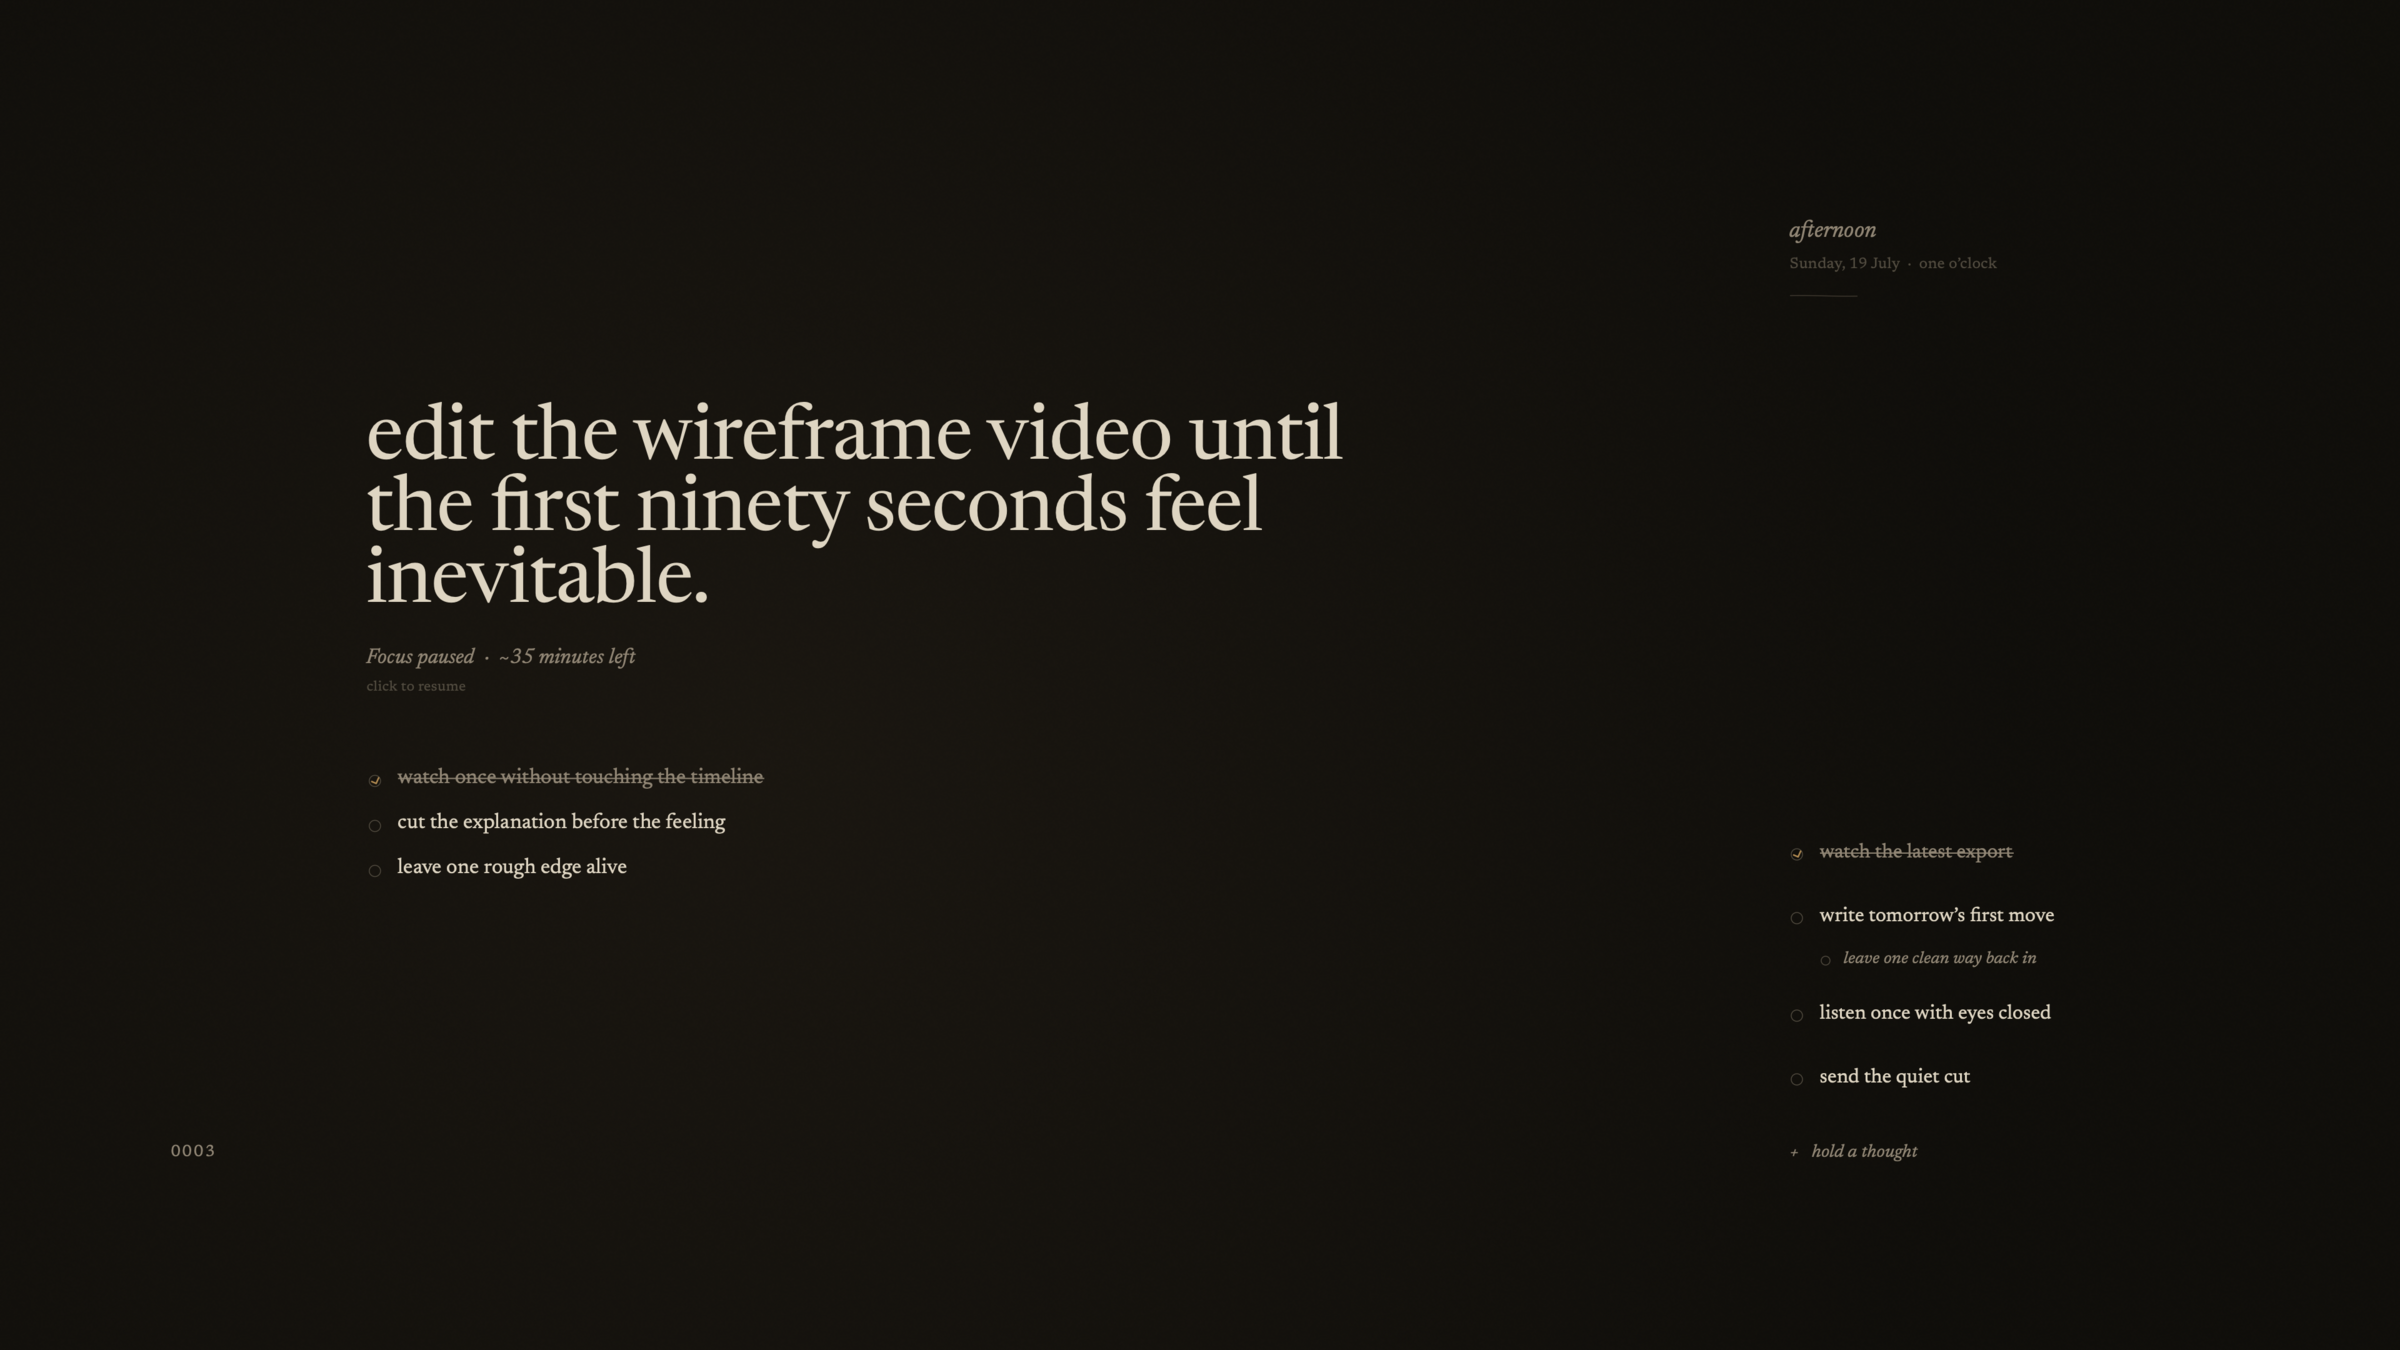
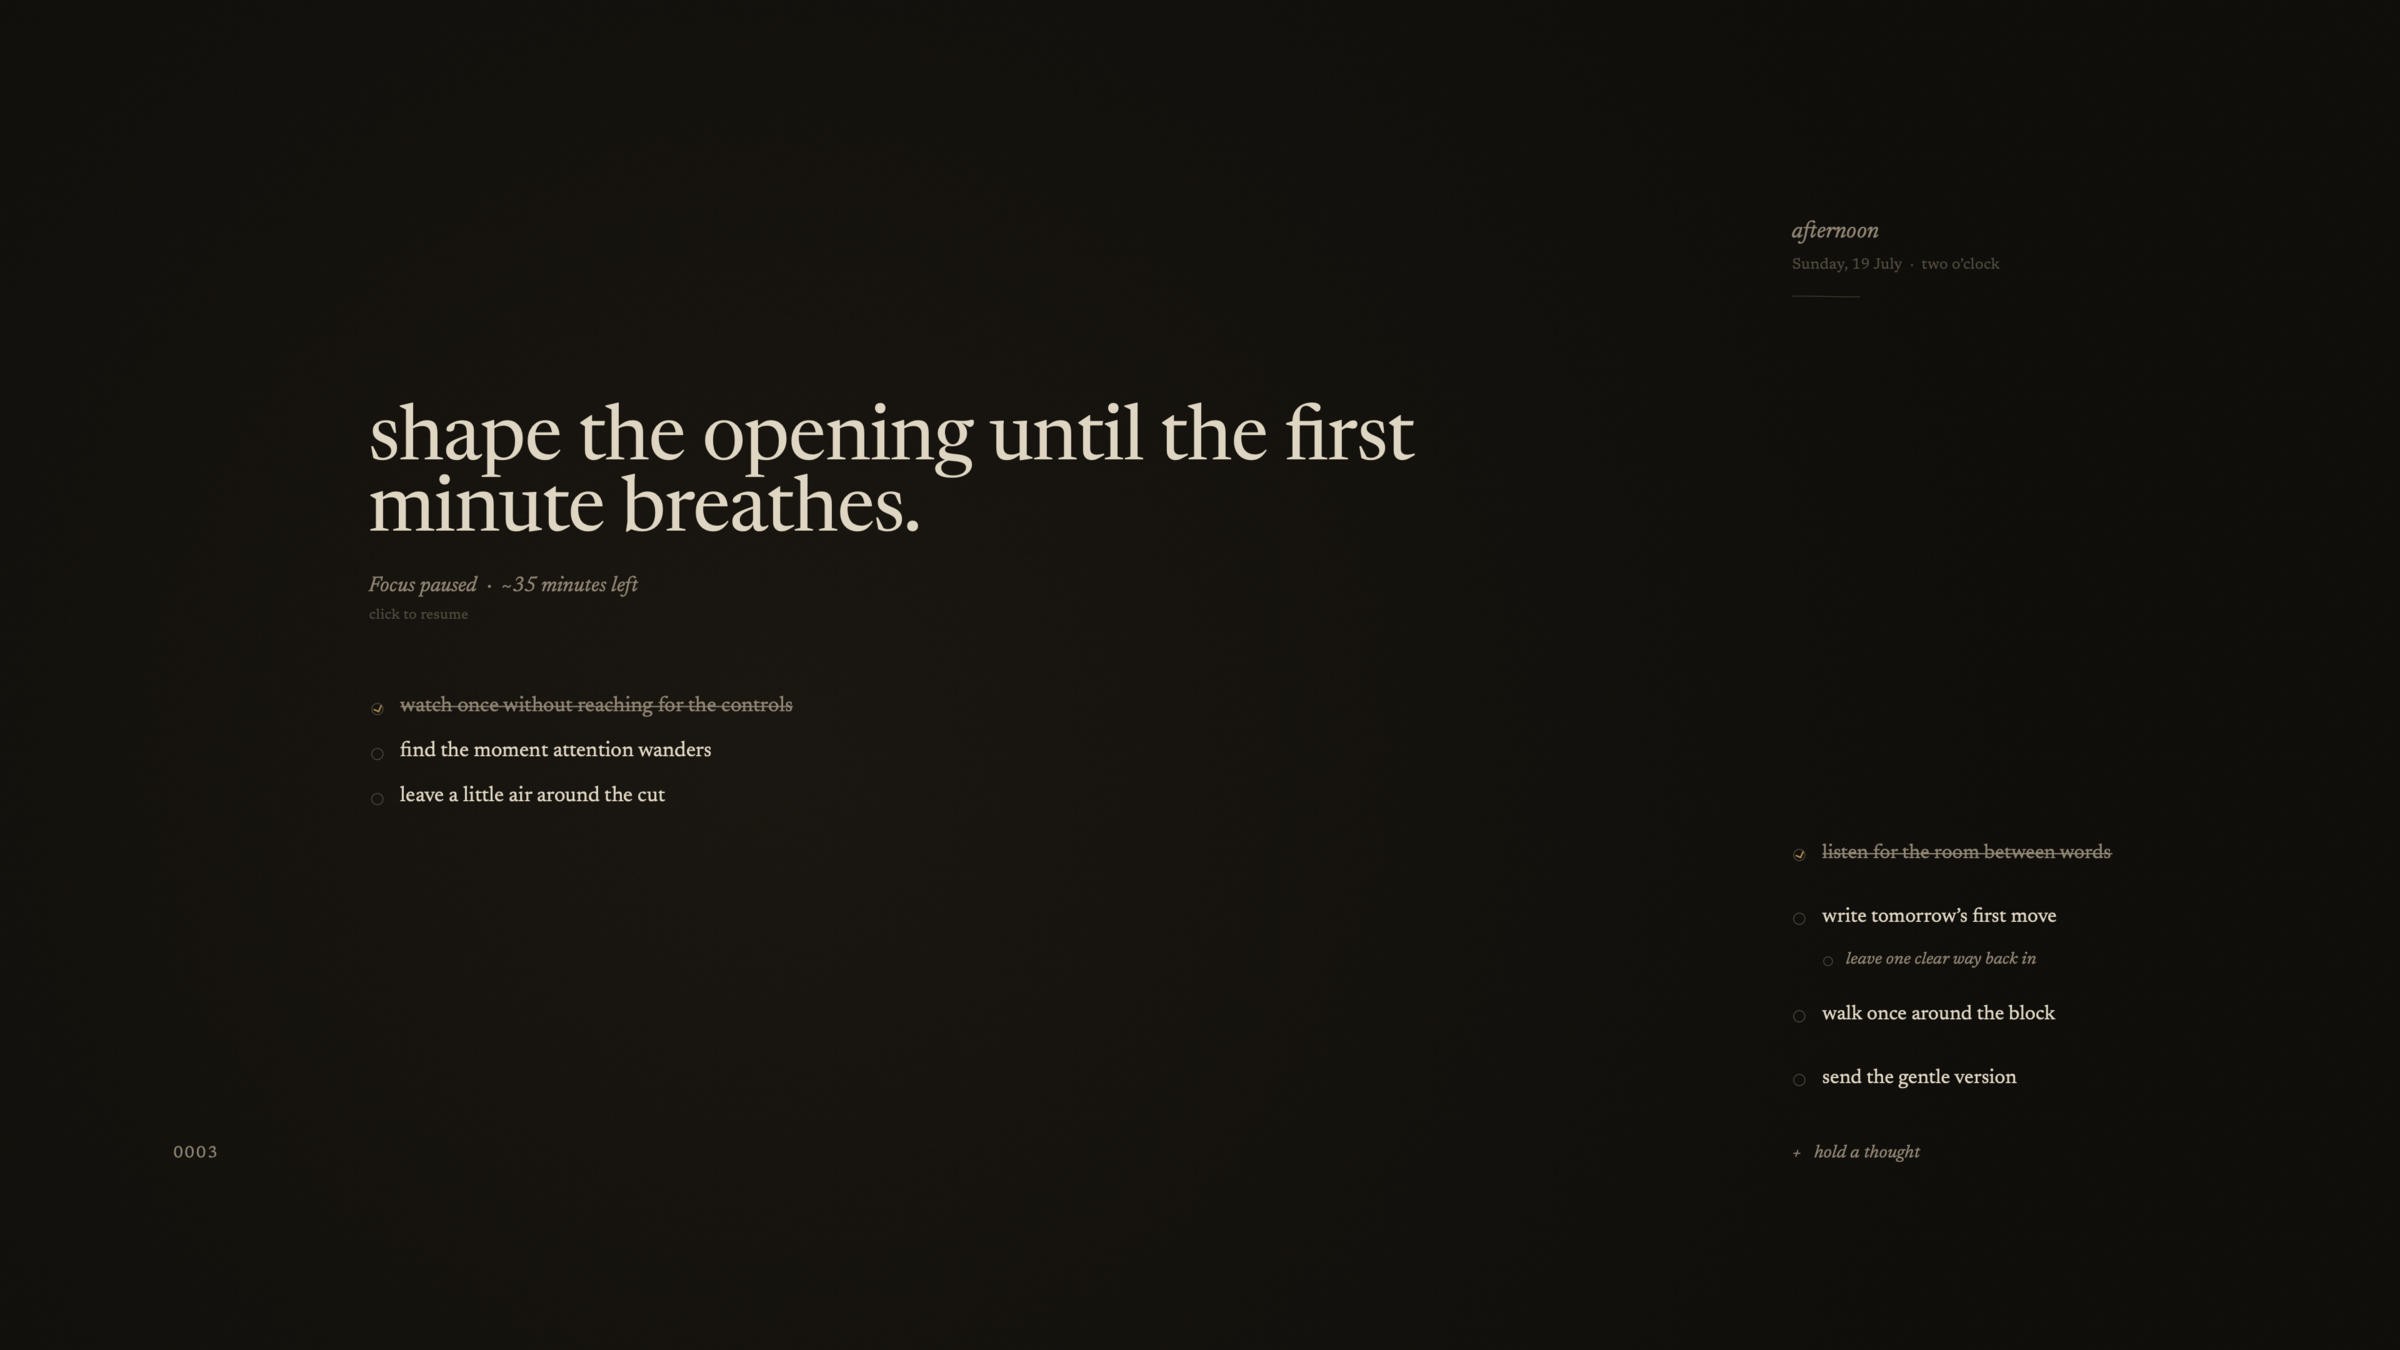
Replace the demo with a quiet first page

diff --git a/Sources/SidetrackCore/DataStore.swift b/Sources/SidetrackCore/DataStore.swift
@@ -29,7 +29,7 @@ public final class DataStore {
             if let backup = try? Data(contentsOf: backupURL),
                let recovered = try? decoder.decode(AppData.self, from: backup) {
                 try? backup.write(to: fileURL, options: .atomic)
-                return normalized(recovered)
+                return normalizeAndPersistIfNeeded(recovered)
             }
             return AppData.firstRun
         }
@@ -37,12 +37,12 @@ public final class DataStore {
             if let backup = try? Data(contentsOf: backupURL),
                let recovered = try? decoder.decode(AppData.self, from: backup) {
                 try? backup.write(to: fileURL, options: .atomic)
-                return normalized(recovered)
+                return normalizeAndPersistIfNeeded(recovered)
             }
             try? data.write(to: unreadableURL, options: .atomic)
             return AppData()
         }
-        return normalized(decoded)
+        return normalizeAndPersistIfNeeded(decoded)
     }
 
     public func save(_ value: AppData) throws {
@@ -77,10 +77,62 @@ public final class DataStore {
 
     private func normalized(_ loaded: AppData) -> AppData {
         var loaded = loaded
+        if isLegacyFirstRunSample(loaded) {
+            loaded.mainTask = nil
+            loaded.today = []
+        }
         if !loaded.didSeedFirstRun && loaded.mainTask == nil && loaded.today.isEmpty {
             return AppData.firstRun
         }
         loaded.didSeedFirstRun = true
         return loaded
+    }
+
+    private func normalizeAndPersistIfNeeded(_ loaded: AppData) -> AppData {
+        let result = normalized(loaded)
+        if result != loaded { try? save(result) }
+        return result
+    }
+
+    private func isLegacyFirstRunSample(_ value: AppData) -> Bool {
+        guard let main = value.mainTask,
+              main.title == "edit wireframe video…",
+              !main.isCompleted,
+              main.subtasks.allSatisfy({ !$0.isCompleted }) else { return false }
+
+        let mainSteps = main.subtasks.map(\.title)
+        let later = value.today.map(\.title)
+        let laterSteps = value.today.map { $0.subtasks.map(\.title) }
+        let allLaterOpen = value.today.allSatisfy { task in
+            !task.isCompleted && task.subtasks.allSatisfy { !$0.isCompleted }
+        }
+        guard allLaterOpen else { return false }
+
+        let recentMainSteps = [
+            "watch once without touching the timeline",
+            "notice where the feeling slips away",
+            "make one quiet pass"
+        ]
+        let recentLater = [
+            "listen once with eyes closed",
+            "write tomorrow’s first move",
+            "leave one clean thing for morning"
+        ]
+        let recentLaterSteps = [["leave a note where the rhythm breaks"], [], []]
+
+        let originalMainSteps = [
+            "watch the latest render once, without touching it",
+            "write down where attention wanders",
+            "make one clean pass"
+        ]
+        let originalLater = [
+            "listen once with eyes closed",
+            "write the next move down",
+            "leave one clear note for tomorrow"
+        ]
+        let originalLaterSteps = [["notice where the rhythm slips"], [], []]
+
+        return (mainSteps == recentMainSteps && later == recentLater && laterSteps == recentLaterSteps)
+            || (mainSteps == originalMainSteps && later == originalLater && laterSteps == originalLaterSteps)
     }
 }

diff --git a/Tests/SidetrackCoreTests/main.swift b/Tests/SidetrackCoreTests/main.swift
@@ -27,8 +27,9 @@ expect(TimeLanguage.rhythmLine(phase: .work, status: .paused, seconds: 50 * 60, 
 expect(TimeLanguage.rhythmLine(phase: .shortBreak, status: .running, seconds: 12 * 60, settings: PomodoroSettings()) == "Short break  ·  ~12 minutes left", "short break names its own countdown")
 expect(TimeLanguage.rhythmLine(phase: .longBreak, status: .running, seconds: 30 * 60, settings: PomodoroSettings()) == "Long break  ·  half an hour left", "long break names its own countdown")
 
-expect(CopyBank.mainPrompt(index: 0) == "edit wireframe video…", "requested main placeholder leads the copy bank")
+expect(CopyBank.mainPrompt(index: 0) == "what are you returning to?", "first placeholder offers a quiet way back in")
 expect(CopyBank.mainPrompt(index: CopyBank.next(0)) != CopyBank.mainPrompt(index: 0), "fresh day advances the copy bank")
+expect(AppData.firstRun.mainTask == nil && AppData.firstRun.today.isEmpty, "first launch begins as the user’s empty page")
 
 let late = calendar.date(from: DateComponents(year: 2026, month: 7, day: 17, hour: 23, minute: 50))!
 let offsetLate = TimeLanguage.adjusted(late, offsetMinutes: 15)
@@ -91,10 +92,16 @@ var idleTimer = FocusTimer(status: .idle, remainingSeconds: 50 * 60)
 TimerEngine.resetDurationIfIdle(&idleTimer, settings: PomodoroSettings(workMinutes: 60))
 expect(idleTimer.remainingSeconds == 60 * 60, "new duration applies while the timer is idle")
 
-let exported = MarkdownExporter.render(AppData.firstRun, date: date, calendar: calendar)
+let exportSample = AppData(
+    mainTask: TaskItem(
+        title: "Shape the opening until it breathes",
+        subtasks: [Subtask(title: "Watch once without reaching for the controls")]
+    )
+)
+let exported = MarkdownExporter.render(exportSample, date: date, calendar: calendar)
 expect(exported.contains("# Friday, 17 July 2026"), "Markdown export has day heading")
-expect(exported.contains("- [ ] edit wireframe video…"), "Markdown export contains main thought")
-expect(exported.contains("  - [ ] watch once without touching the timeline"), "Markdown export contains subthoughts")
+expect(exported.contains("- [ ] Shape the opening until it breathes"), "Markdown export contains main thought")
+expect(exported.contains("  - [ ] Watch once without reaching for the controls"), "Markdown export contains subthoughts")
 expect(exported.contains("## Distractions\n0"), "Markdown export contains daily distraction count")
 
 let testDirectory = URL(fileURLWithPath: FileManager.default.currentDirectoryPath)
@@ -122,6 +129,48 @@ do {
     try FileManager.default.removeItem(at: store.fileURL)
     expect(store.load() == expected, "a missing primary file recovers its readable backup")
     expect(FileManager.default.fileExists(atPath: store.fileURL.path), "missing-file recovery restores the primary file")
+
+    let legacyStore = DataStore(fileURL: testDirectory.appendingPathComponent("legacy-seed.json"))
+    let legacySeed = AppData(
+        mainTask: TaskItem(
+            title: "edit wireframe video…",
+            subtasks: [
+                Subtask(title: "watch once without touching the timeline"),
+                Subtask(title: "notice where the feeling slips away"),
+                Subtask(title: "make one quiet pass")
+            ]
+        ),
+        today: [
+            TaskItem(title: "listen once with eyes closed", subtasks: [Subtask(title: "leave a note where the rhythm breaks")]),
+            TaskItem(title: "write tomorrow’s first move"),
+            TaskItem(title: "leave one clean thing for morning")
+        ],
+        distractionsByDay: ["2026-07-17": 2]
+    )
+    try legacyStore.save(legacySeed)
+    let migratedSeed = legacyStore.load()
+    expect(migratedSeed.mainTask == nil && migratedSeed.today.isEmpty, "the exact old demo page becomes a clean first page")
+    expect(migratedSeed.distractionsByDay["2026-07-17"] == 2, "demo migration preserves personal counters and settings")
+
+    let originalLegacyStore = DataStore(fileURL: testDirectory.appendingPathComponent("original-legacy-seed.json"))
+    let originalLegacySeed = AppData(
+        mainTask: TaskItem(
+            title: "edit wireframe video…",
+            subtasks: [
+                Subtask(title: "watch the latest render once, without touching it"),
+                Subtask(title: "write down where attention wanders"),
+                Subtask(title: "make one clean pass")
+            ]
+        ),
+        today: [
+            TaskItem(title: "listen once with eyes closed", subtasks: [Subtask(title: "notice where the rhythm slips")]),
+            TaskItem(title: "write the next move down"),
+            TaskItem(title: "leave one clear note for tomorrow")
+        ]
+    )
+    try originalLegacyStore.save(originalLegacySeed)
+    let migratedOriginalSeed = originalLegacyStore.load()
+    expect(migratedOriginalSeed.mainTask == nil && migratedOriginalSeed.today.isEmpty, "the original demo page also becomes a clean first page")
 
     let damagedStore = DataStore(fileURL: testDirectory.appendingPathComponent("damaged.json"))
     try Data("{still-not-json".utf8).write(to: damagedStore.fileURL, options: .atomic)

diff --git a/Sources/SidetrackCore/CopyBank.swift b/Sources/SidetrackCore/CopyBank.swift
@@ -2,33 +2,33 @@ import Foundation
 
 public enum CopyBank {
     public static let main = [
-        "edit wireframe video…",
         "what are you returning to?",
-        "leave the next honest mark.",
-        "begin with the part that still has a pulse.",
+        "what deserves the quiet?",
+        "begin where the work still feels alive.",
+        "leave one honest mark.",
         "what can become clear before you stop?",
-        "make one thing quieter."
+        "make room for the thing that matters."
     ]
 
     private static let later = [
-        "hold something here…",
-        "leave this where you can find it…",
-        "what can wait without disappearing?",
-        "set down what keeps circling…"
+        "leave this here; it can wait.",
+        "what wants remembering?",
+        "set down what keeps circling…",
+        "hold this gently for later…"
     ]
 
     private static let step = [
-        "what is the smallest honest move?",
         "where can your hands begin?",
-        "leave yourself an easy entrance.",
-        "what makes this lighter?"
+        "what is the smallest honest move?",
+        "find the softest way in…",
+        "what would make beginning lighter?"
     ]
 
     private static let sideStep = [
-        "leave a way back in…",
-        "what belongs underneath?",
+        "leave yourself a way back in…",
+        "what belongs just beneath this?",
         "name the first foothold…",
-        "what will help you return?"
+        "what will make returning easy?"
     ]
 
     public static func mainPrompt(index: Int) -> String { pick(main, index) }

diff --git a/Sources/SidetrackCore/Models.swift b/Sources/SidetrackCore/Models.swift
@@ -148,24 +148,7 @@ public struct AppData: Codable, Equatable {
     }
 
     public static var firstRun: AppData {
-        AppData(
-            mainTask: TaskItem(
-                title: "edit wireframe video…",
-                subtasks: [
-                    Subtask(title: "watch once without touching the timeline"),
-                    Subtask(title: "notice where the feeling slips away"),
-                    Subtask(title: "make one quiet pass")
-                ]
-            ),
-            today: [
-                TaskItem(
-                    title: "listen once with eyes closed",
-                    subtasks: [Subtask(title: "leave a note where the rhythm breaks")]
-                ),
-                TaskItem(title: "write tomorrow’s first move"),
-                TaskItem(title: "leave one clean thing for morning")
-            ]
-        )
+        AppData()
     }
 
     private enum CodingKeys: String, CodingKey {

diff --git a/Sources/Sidetrack/AppDelegate.swift b/Sources/Sidetrack/AppDelegate.swift
@@ -8,6 +8,7 @@ final class AppDelegate: NSObject, NSApplicationDelegate, NSWindowDelegate {
     private var launchFullScreenPending = false
     private var fullScreenTransitioning = false
     private var launchFullScreenAttempts = 0
+    private var launchActivationAttempts = 0
 
     func applicationDidFinishLaunching(_ notification: Notification) {
         NSApp.appearance = NSAppearance(named: .darkAqua)
@@ -25,6 +26,10 @@ final class AppDelegate: NSObject, NSApplicationDelegate, NSWindowDelegate {
 
     func applicationWillTerminate(_ notification: Notification) {
         focusView.save()
+    }
+
+    func applicationDidBecomeActive(_ notification: Notification) {
+        if launchFullScreenPending { requestLaunchFullScreen(after: 0.12) }
     }
 
     func applicationShouldTerminateAfterLastWindowClosed(_ sender: NSApplication) -> Bool { true }
@@ -91,6 +96,15 @@ final class AppDelegate: NSObject, NSApplicationDelegate, NSWindowDelegate {
             }
             if self.fullScreenTransitioning {
                 self.requestLaunchFullScreen(after: 0.45)
+                return
+            }
+            guard NSApp.isActive else {
+                if self.launchActivationAttempts < 8 {
+                    self.launchActivationAttempts += 1
+                    NSApp.activate(ignoringOtherApps: true)
+                    self.window.makeKeyAndOrderFront(nil)
+                    self.requestLaunchFullScreen(after: 0.3)
+                }
                 return
             }
             guard self.launchFullScreenAttempts < 4 else {

diff --git a/HANDOVER.md b/HANDOVER.md
@@ -18,16 +18,17 @@ Read `README.md`, `PHILOSOPHY.md`, then `Docs/design-reference.png`.
 - Display clock defaults to +15 minutes and is independently configurable; pomodoro timing remains real.
 - Defaults: 50 focus, 12 break, repeated three times, then 30 long break.
 - Main thought and all later thoughts support one level of subthoughts.
+- First launch is a genuinely empty page with a rotating bank of quiet invitations. Exact untouched demo pages from older builds migrate to empty without disturbing settings or distraction counts.
 - Checks, promotion, contextual right-click actions, native undo, timer reset, copy-bank fresh-day reset, bottom-up reminders, daily distraction increment/decrement, embedded hover hotkeys, seven-day history, manual Markdown export, and automatic midnight/next-launch day archives implemented.
 - Compact layout verified from 900 × 600 upward. Main copy wraps and fits down, right-column subthoughts hide first, timer instructions own their vertical space, and resize invalidation prevents stale or clipped canvases after display changes.
 - Local writes are atomic with a rolling readable backup; a missing or unreadable primary recovers automatically, and unreadable source JSON is preserved. Save/export failures keep the page intact and explain the local write problem. Repeated same-day archives receive collision-safe suffixes instead of overwriting earlier pages.
-- Full-screen launch now uses a bounded, transition-aware retry instead of one brittle delayed toggle. It is verified on the remembered second display at 1920×1080 logical / 3840×2160 physical.
-- Last verification: `Sidetrack checks passed: 159`; 40 rapid cross-size resizes, a 202-action input burst, long wrapped editing, focus/paused spacing, preferences, missing/corrupt data recovery, archive collisions, icon resolution, and full-screen launch verified.
+- Full-screen launch waits for confirmed app activation, then uses a bounded, transition-aware retry instead of one brittle delayed toggle. It is verified on the remembered second display at 1920×1080 logical / 3840×2160 physical.
+- Last verification: `Sidetrack checks passed: 163`; 40 rapid cross-size resizes, a 202-action input burst, long wrapped editing, focus/paused spacing, preferences, both historical first-run migrations, missing/corrupt data recovery, archive collisions, icon resolution, and full-screen launch verified.
 - Settled idle: 0.0% CPU between minute redraws; about 7–11 MB RSS in full screen.
 - App icon source: `Assets/Sidetrack-icon-source.png`.
 - GitHub product portrait: `Docs/Sidetrack-product-portrait.png`; 2400 × 1350, fictional task data, no private user content.
 - Built app: `build/Sidetrack.app`; use `build/Sidetrack.app.zip` for installation because the synced workspace can decorate unpacked bundle folders with unrelated Finder icon metadata after signing.
-- Installed app: `/Applications/Sidetrack.app`, version 1.1.1 (build 3) after the final installation step, 3.1 MB, ad-hoc signature verified. The running app exposes the full multi-resolution icon and launches full-screen on the remembered second display.
+- Installed app: `/Applications/Sidetrack.app`, version 1.1.2 (build 4) after the final installation step, 3.2 MB, ad-hoc signature verified. The running app exposes the full multi-resolution icon and launches full-screen on the remembered second display.
 - Public repository: `https://github.com/bomkino/sidetrack`; branch and release state must be checked live.
 
 ## Finish next

diff --git a/README.md b/README.md
@@ -1,6 +1,6 @@
 # Sidetrack
 
-![Sidetrack’s dark, paper-soft focus view: “edit the wireframe video until the first ninety seconds feel inevitable,” a vague timer, three quiet steps, and today’s thoughts.](Docs/Sidetrack-product-portrait.png)
+![Sidetrack’s dark, paper-soft focus view: “shape the opening until the first minute breathes,” a vague timer, three quiet steps, and today’s thoughts.](Docs/Sidetrack-product-portrait.png)
 
 Sidetrack is a quiet second-screen focus display for macOS. One sentence holds the center. Everything else waits in the margin.
 
@@ -28,6 +28,7 @@ Read [PHILOSOPHY.md](PHILOSOPHY.md) for the thinking behind it.
 - Counts distractions with a tiny daily `0000` clicker; hover reveals a soft decrement and the keyboard map, while right-click shows seven days.
 - Saves the finished day automatically as readable Markdown after midnight or on the next launch; manual export remains available.
 - Cycles through a small bank of human placeholders when you begin fresh.
+- Begins with an empty page rather than pretending a demo task belongs to you.
 - Saves everything locally as readable JSON.
 
 ## Keys
@@ -92,7 +93,7 @@ Measured in full-screen on a 1920 × 1080 logical second display after the curre
 
 - `0.0%` CPU between minute updates; one brief redraw on the minute, then the process sleeps again
 - roughly `7–11 MB` resident memory after settling
-- `492 KB` executable; `3.1 MB` installed app bundle including font and icon
+- `509 KB` executable; `3.2 MB` installed app bundle including font and icon
 
 The compact layout survived 40 rapid resizes across 900 × 600, 1000 × 700, 1200 × 760, 1440 × 900, and 1920 × 1049. A separate burst of 202 timer and counter actions completed in under one second without a lost write or damaged backup.
 